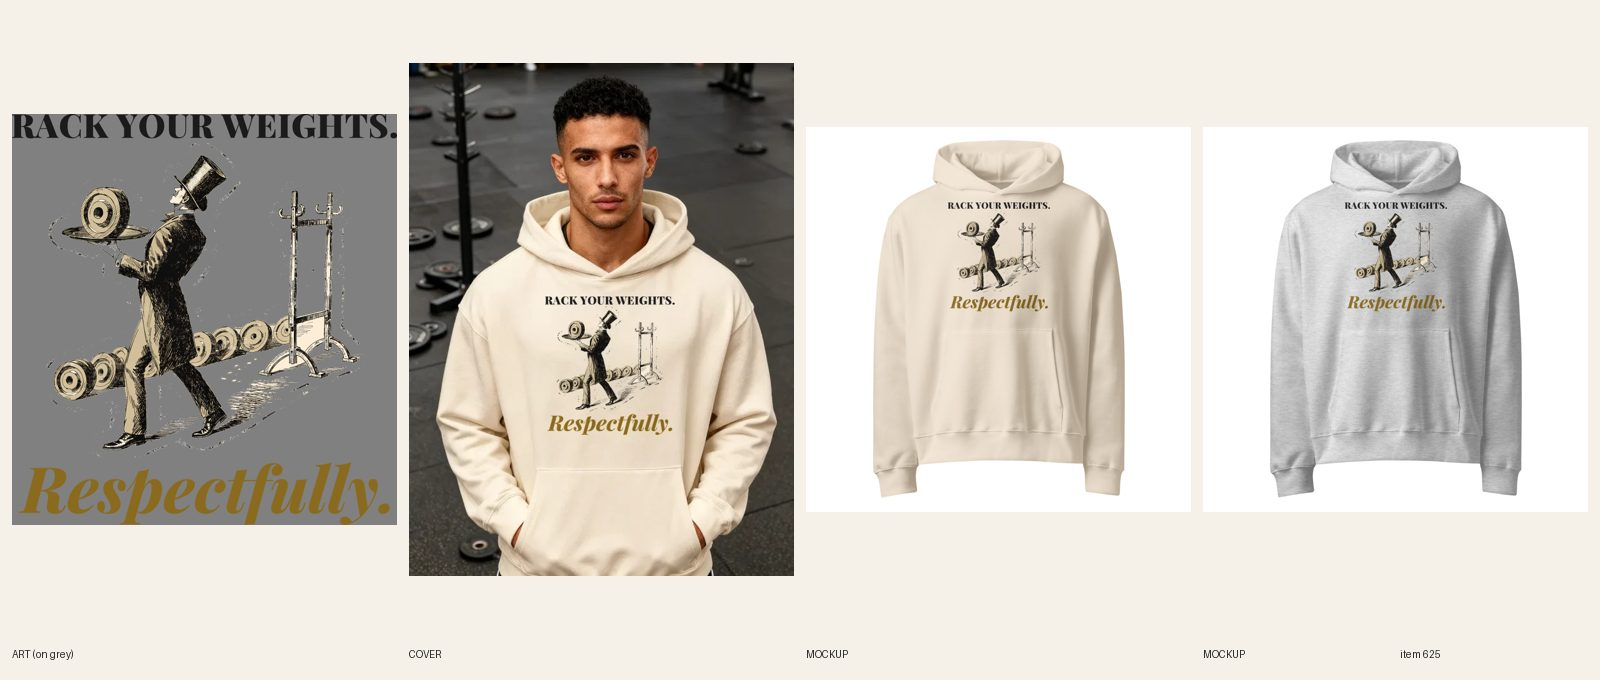
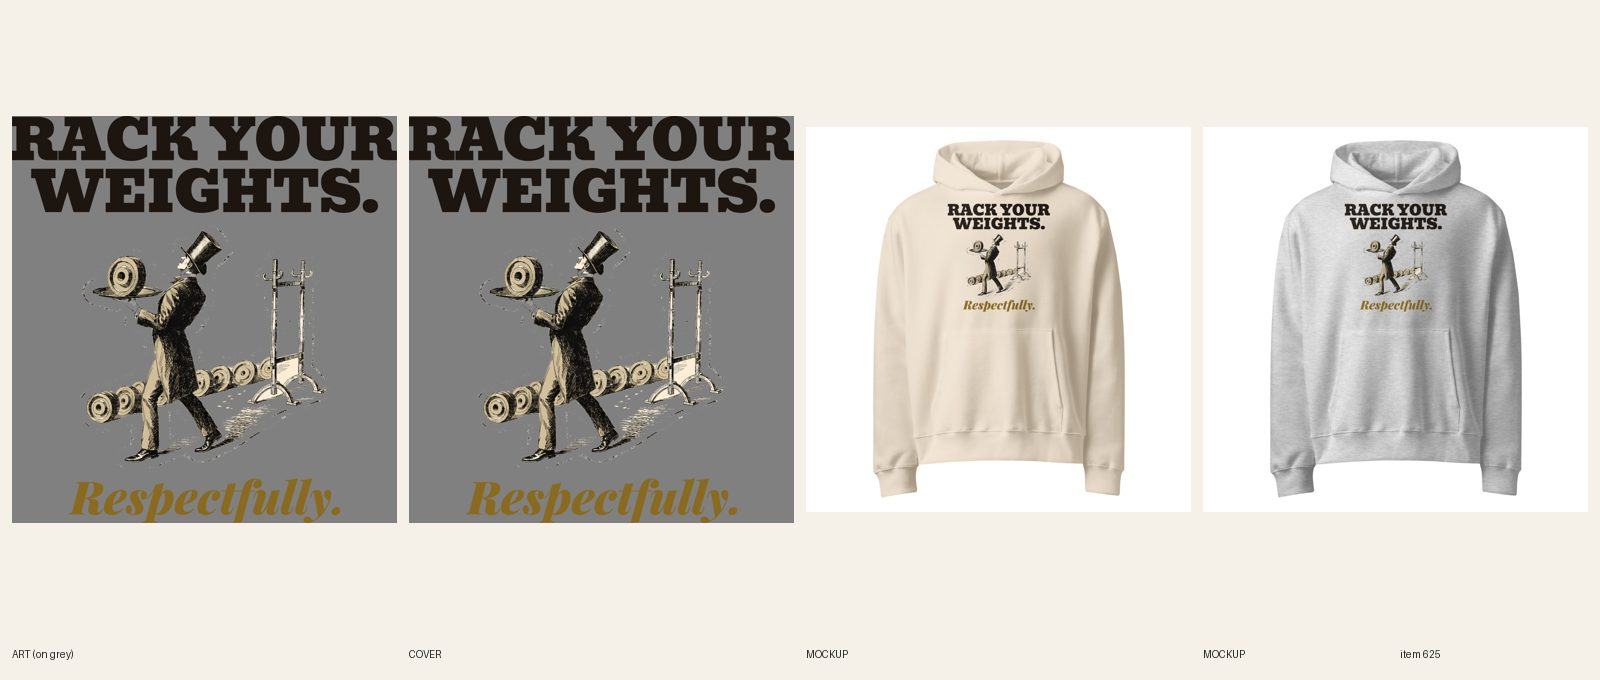
[C] review 625 Men's Rack Your Weights oversized hoodie (type redo)
Claude-Session: https://claude.ai/code/session_01Pd4xoBHPa2K7nzEpUJ3Ceu

Changed region(s): [[0.0, 0.0926, 0.5, 0.8647], [0.8438, 0.2779, 0.9062, 0.4632], [0.5938, 0.2779, 0.6562, 0.4632]]

diff --git a/designs/c625/build.py b/designs/c625/build.py
@@ -1,0 +1,35 @@
+#!/usr/bin/env python3
+"""#625 hoodie: type-only redo. Butler art from docs/print-files/625-rack-your-weights.png (rows 190-3080 are art).
+Headline RACK YOUR WEIGHTS. in Bevan at full art width, near-black; Respectfully. in Playfair Black Italic gold, heavy.
+usage: build.py <src.png> <out.png>"""
+import sys
+from PIL import Image, ImageDraw, ImageFont
+src, out = sys.argv[1:3]
+a = Image.open(src).convert('RGBA')
+art = a.crop((0, 300, a.width, 3040)); art = art.crop(art.getbbox())
+L = art.width
+R = float(sys.argv[3]) if len(sys.argv) > 3 else 0.72
+F = 'designs/fonts/'
+def line(text, fontfile, fill, width, axes=None):
+    size = 400
+    while True:
+        f = ImageFont.truetype(F + fontfile, size)
+        if axes: f.set_variation_by_axes(axes)
+        bb = f.getbbox(text)
+        if bb[2] - bb[0] <= width or size < 50: break
+        size -= 6
+    im = Image.new('RGBA', (bb[2] + 40, bb[3] + size), (0, 0, 0, 0))
+    ImageDraw.Draw(im).text((10, 10), text, font=f, fill=fill)
+    return im.crop(im.getbbox())
+h1 = line('RACK YOUR', 'Bevan-Regular.ttf', '#1c1510', L)
+h2 = line('WEIGHTS.', 'Bevan-Regular.ttf', '#1c1510', L)
+h = Image.new('RGBA', (L, h1.height + 50 + h2.height), (0, 0, 0, 0)); h.alpha_composite(h1, ((L-h1.width)//2, 0)); h.alpha_composite(h2, ((L-h2.width)//2, h1.height + 50))
+art = art.resize((int(L*R), int(art.height*R)), Image.LANCZOS)
+s = line('Respectfully.', 'PlayfairDisplay-Italic[wght].ttf', '#8a6a1f', int(L * 0.72), [900])
+g1, g2 = 90, 70
+c = Image.new('RGBA', (L, h.height + g1 + art.height + g2 + s.height), (0, 0, 0, 0))
+c.alpha_composite(h, ((L - h.width) // 2, 0))
+c.alpha_composite(art, ((L-art.width)//2, h.height + g1))
+c.alpha_composite(s, ((L - s.width) // 2, h.height + g1 + art.height + g2))
+c = c.crop(c.getbbox()); c.save(out, dpi=(300, 300))
+print(out, c.size, 'aspect %.2f' % (c.height / c.width), 'headline h', h.height, 'sub h', s.height)

diff --git a/docs/pipeline/625-gym-oversized-hoodie-rack-your-weights.md b/docs/pipeline/625-gym-oversized-hoodie-rack-your-weights.md
@@ -1,4 +1,4 @@
-status: REDO
+status: REVIEW
 shopify: gid://shopify/Product/15364916904240
 lane: C
 type: twin
@@ -29,3 +29,4 @@ kd: 14
 - 2026-10-18 08:14 UTC builder [C]: Printful relink verified 12/12 (6 Dust + 6 Athletic Heather on 1088657650, back logo on all); REVIEW.
 - 2026-10-18 08:19 UTC director: LIVE. Sheet reviewed (R3, R4/R5, R6, R8, R13.3); copy fix: "one of the fitness gifts for men" x2 (R8.3) reworded. ACTIVE + Online Store, Headless, Google & YouTube; cohesion-audit --handle PASS 0 warn.
 - 2026-10-18 17:22 UTC director: QUALITY RESET grade B (type only), REDO. The product stays ACTIVE (same handle, URL, title keyword). Keep the line "Rack Your Weights. / Respectfully." and the art. 1. Type: line works (butler racking plates); headline thin book serif, plain bar on top. 2. Quality reset type bar (docs/backlog/quality-reset.md, 'The new bar'): headline at least 90% of the art width, heavy, colors pulled from the art; second line at least 45% of the headline's height, never a thin script on a dark or mid garment; use the lettering as a shape (arch, stacked lockup, words breaking into the art), not a plain bar above and a script line below; no font used on more than 1 in 6 of the last 30 designs. 3. New print file means a new cover per R6.10 and a fresh review sheet (R7.7). While quality-reset.md says PAUSED, only lane A builds, and only the samples step 2 names.
+- 2026-10-19 19:04 UTC builder [C]: REDO 625 type only (B grade). designs/c625/build.py: same butler art, RACK YOUR / WEIGHTS. stacked in Bevan near-black at full print width, Respectfully. in Playfair Display Black Italic gold #8a6a1f (second line 46% of the two-line headline height, heavy italic, never thin script); colors pulled from the art. Printful front area is 1650x1650, so art scaled to 64% (file 2763x2922, aspect 1.06) to fit FW 1500 TOP 20 above the pouch; first try at 1.14 clipped Respectfully and was replaced before sync. Printful file 1089754041. Dust + Athletic Heather only, dark ink on light fleece, no light file needed (R5.3.8 n/a). Relinked 12/12 (back logo 1080398177 kept, R7.7). 2 fronts replaced in place (fileUpdate); phone-size read of both clear, print ends above pouch. Copy: story paragraph and colors FAQ updated to slab lettering. Plain product shot (handle already in retired-covers.json). audit --handle PASS 0 warn. fal $0. Sheet docs/review/625.jpg. Note: a mistaken fileUpdate with placeholder URLs briefly blanked the Dust front image on the live product; restored within minutes with the real mockup. #567's file (aspect 1.27) may exceed the 1650 print area on this same blank: director may want to check its mockup.

diff --git a/docs/intake-log.md b/docs/intake-log.md
@@ -1,5 +1,5 @@
 RUNNING lane B since 2026-10-19 18:59 UTC
-RUNNING lane C since 2026-10-19 18:55 UTC
+2026-10-19 19:04 UTC — [C] Builder run: redid #625 Men's Rack Your Weights oversized hoodie (type only: Bevan stacked RACK YOUR / WEIGHTS. + heavy gold Playfair italic Respectfully., art at 64% to fit the 1650 px print area, FW 1500 TOP 20, file 1089754041, 12/12 relinked, 2 fronts replaced in place, copy updated, plain product shot). REVIEW. fal $0. 1 redo per run cap reached. Lock released.
 2026-10-19 18:45 UTC — [H] Helper run: Telegram inbox empty (getUpdates returned 0 updates; no pause, resume or TikTok links; nothing to consume). Audit (600 live products): 0 errors, 30 warnings left alone (polish); no meta, SEO, collection or price errors to fix; announcement bar unchanged. Category check: 0 products without a category (Shopify query empty, no mutation). Site freshness: mens-firefighter-yes-one-cat-once-hoodie, unisex-christmas-we-said-no-gifts-graphic-tee, womens-nana-mom-said-no-thats-cute-crewneck-sweatshirt all 200. Stuck work: one BUILDING item (#614, 18:38, lane A current); lane locks A 18:38, E 18:18, B 18:00, all under 2 hours. Daily summary not due (sent 16:05). Lock released.
 2026-10-19 19:00 UTC — [A] Builder run: redid #614 Mom's Favorite tee (type only: heavy Anton green CHECK THE STOCKINGS. under the slab headline, same art, FW 1650, file 1089735944, 42/42 relinked, 6 fronts replaced in place, plain product shot). REVIEW. fal $0. Lock released.
 2026-10-19 18:27 UTC — [E] Builder run: redid #555 Treat Me Like Wildlife tee (type only: heavy Anton rust/navy/green stacked lockup at full art width, same goat art, FW 1300, file 1089727831, 36/36 resynced, 6 fronts replaced in place, plain product shot). REVIEW. fal $0. 1 redo per run cap reached. Lock released.
